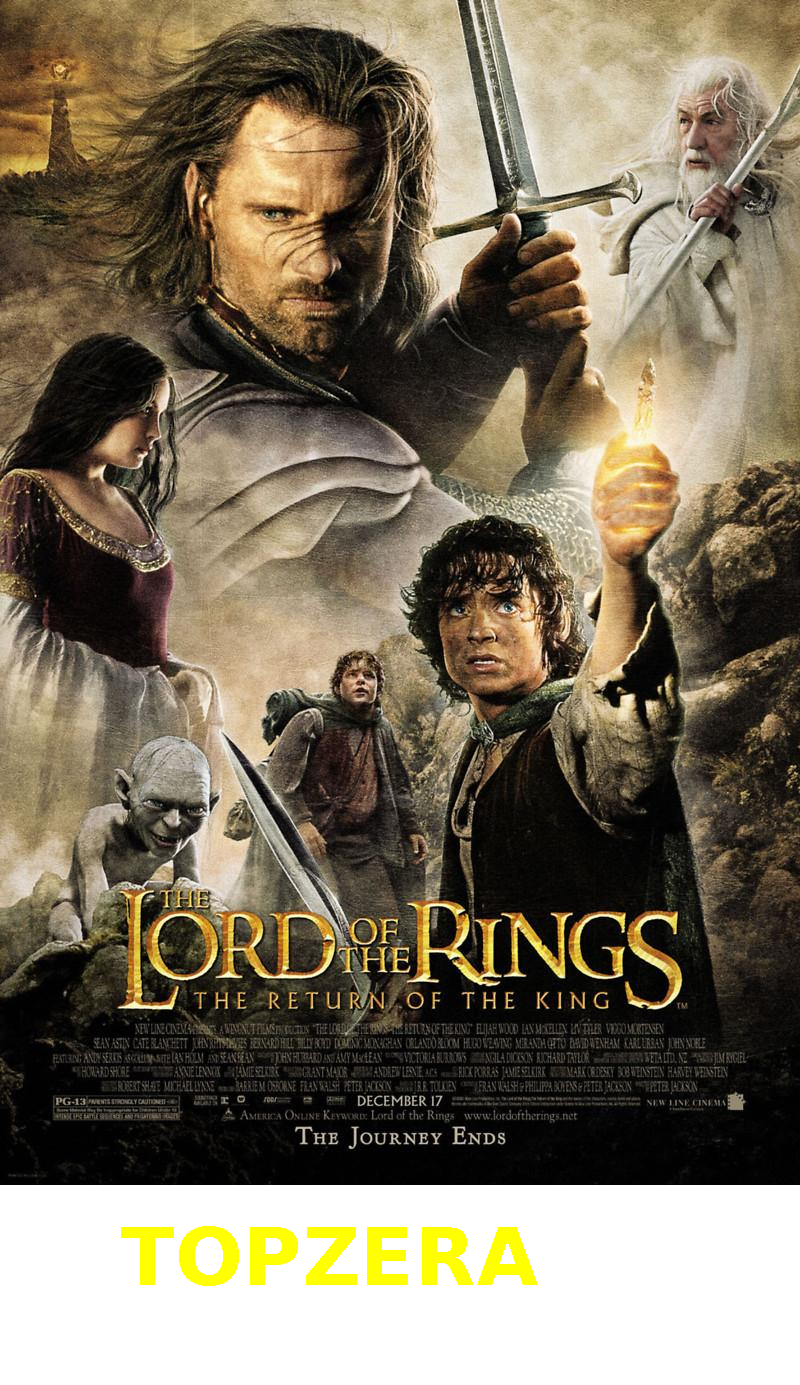
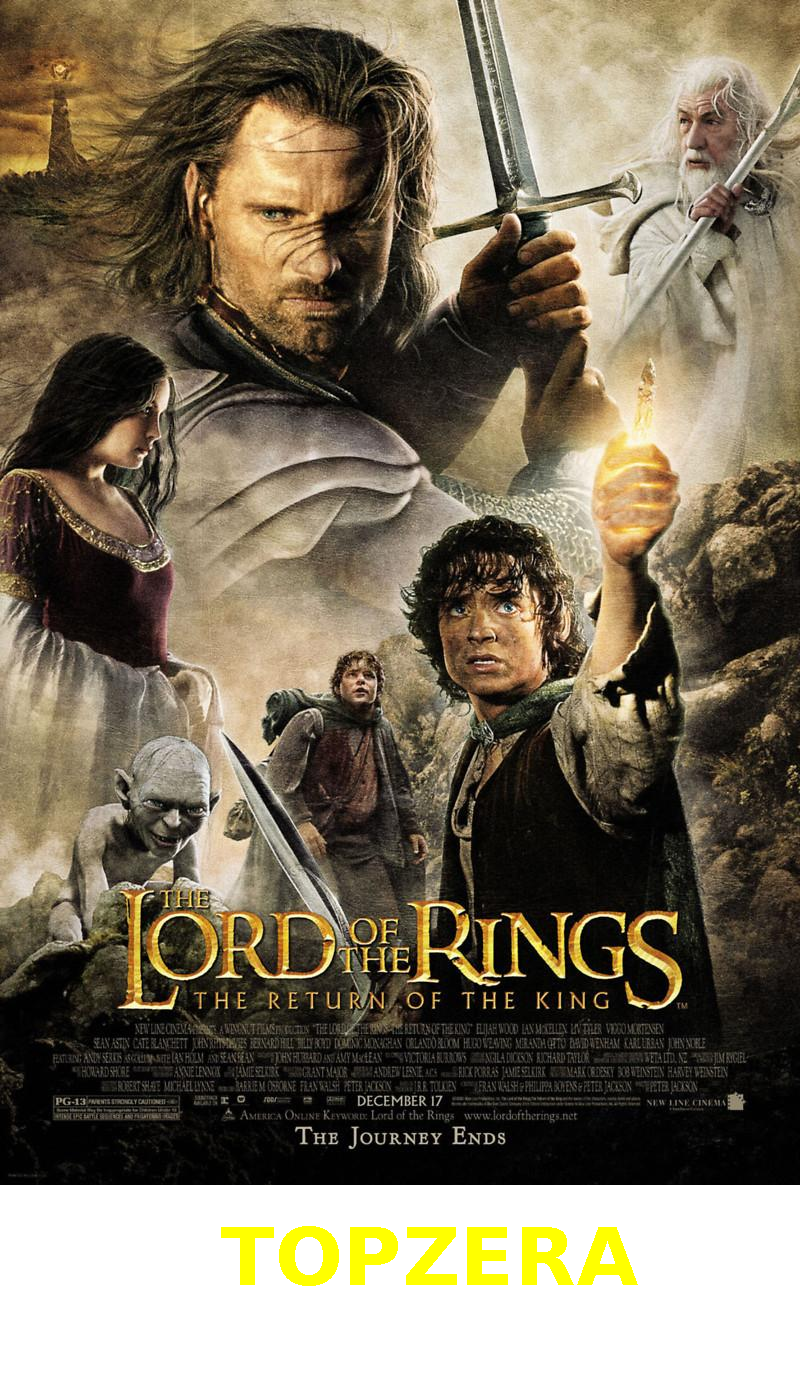
aula-3

Changed region(s): [[0.1562, 0.8693, 0.8125, 0.9314]]

diff --git a/src/Main.java b/src/Main.java
@@ -1,42 +1,38 @@
 import java.io.InputStream;
-import java.net.URI;
 import java.net.URL;
-import java.net.http.HttpClient;
-import java.net.http.HttpRequest;
-import java.net.http.HttpResponse;
-import java.net.http.HttpResponse.BodyHandlers;
 import java.util.List;
 import java.util.Map;
 public class Main {
     public static void main(String[] args) throws Exception {
 
-//        fazer uma conexão HTTP e buscar
+        //fazer uma conexão HTTP e buscar
 
         String url = "https://raw.githubusercontent.com/alura-cursos/imersao-java-2-api/main/TopMovies.json";
-        URI endereco = URI.create(url);
-        var client = HttpClient.newHttpClient();
-        var request = HttpRequest.newBuilder(endereco).GET().build();
-        HttpResponse<String> response = client.send(request, BodyHandlers.ofString());
-        String body = response.body();
+        ExtratorDeConteudoIMDB extrator = new ExtratorDeConteudoIMDB();
 
-//        Extrair só os dados que interessam (titulo, poster, classificação
+        //String url = "https://api.nasa.gov/planetary/apod?api_key=DEMO_KEY&start_date=2023-01-01&end_date=2023-01-10";
+        //ExtratorDeConteudoNasa extrator = new ExtratorDeConteudoNasa();
 
-        var parser = new JsonParser();
-        List<Map<String, String>> listaDeFilmes = parser.parse(body);
+        var http = new ClienteHttp();
+        String json = http.buscarDados(url);
 
-//        Exibir e manipular os dados
+        //Exibir e manipular os dados
+
+        List<Conteudo> conteudos = extrator.extrairConteudos(json);
+
         var geradora = new GeradoraDeFigurinhas();
-        for (Map<String,String> filme : listaDeFilmes) {
 
-            String urlImagem = filme.get("image");
-            String titulo = filme.get("title");
 
-            InputStream inputStream = new URL(urlImagem).openStream();
-            String nomeArquivo = titulo + ".png";
+        for (int i = 0; i < 10; i++) {
+
+            Conteudo conteudo = conteudos.get(i);
+
+            InputStream inputStream = new URL(conteudo.getUrlImagem()).openStream();
+            String nomeArquivo = conteudo.getTitulo() + ".png";
 
             geradora.cria(inputStream, nomeArquivo);
 
-            System.out.println(titulo);
+            System.out.println(conteudo.getTitulo());
             System.out.println();
         }
 

diff --git a/src/ExtratorDeConteudoIMDB.java b/src/ExtratorDeConteudoIMDB.java
@@ -1,0 +1,25 @@
+import java.util.ArrayList;
+import java.util.List;
+import java.util.Map;
+
+public class ExtratorDeConteudoIMDB implements ExtratorDeConteudo {
+    public List<Conteudo> extrairConteudos(String json){
+        //Extrair só os dados que interessam (titulo, poster, classificação
+
+        var parser = new JsonParser();
+        List<Map<String, String>> listaDeAtributos = parser.parse(json);
+
+        List<Conteudo> conteudos = new ArrayList<>();
+
+        //popular a lista de conteudos
+
+        for (Map<String, String> atributos : listaDeAtributos){
+            String titulo = atributos.get("title");
+            String urlImagem = atributos.get("image").replaceAll("(@+)(.*).jpg$", "$1.jpg");
+            var conteudo = new Conteudo(titulo, urlImagem);
+            conteudos.add(conteudo);
+        }
+
+        return conteudos;
+    }
+}

diff --git a/src/ExtratorDeConteudoNasa.java b/src/ExtratorDeConteudoNasa.java
@@ -1,0 +1,25 @@
+import java.util.ArrayList;
+import java.util.List;
+import java.util.Map;
+
+public class ExtratorDeConteudoNasa implements ExtratorDeConteudo {
+    public List<Conteudo> extrairConteudos(String json){
+        //Extrair só os dados que interessam (titulo, poster, classificação
+
+        var parser = new JsonParser();
+        List<Map<String, String>> listaDeAtributos = parser.parse(json);
+
+        List<Conteudo> conteudos = new ArrayList<>();
+
+        //popular a lista de conteudos
+
+        for (Map<String, String> atributos : listaDeAtributos){
+            String titulo = atributos.get("title");
+            String urlImagem = atributos.get("url");
+            var conteudo = new Conteudo(titulo, urlImagem);
+            conteudos.add(conteudo);
+        }
+
+        return conteudos;
+    }
+}

diff --git a/src/ClienteHttp.java b/src/ClienteHttp.java
@@ -1,0 +1,21 @@
+import java.io.IOException;
+import java.net.URI;
+import java.net.http.HttpClient;
+import java.net.http.HttpRequest;
+import java.net.http.HttpResponse;
+
+public class ClienteHttp {
+    public String buscarDados(String url){
+        try{
+
+            URI endereco = URI.create(url);
+            var client = HttpClient.newHttpClient();
+            var request = HttpRequest.newBuilder(endereco).GET().build();
+            HttpResponse<String> response = client.send(request, HttpResponse.BodyHandlers.ofString());
+            String body = response.body();
+            return body;
+        }catch (IOException | InterruptedException ex ){
+            throw new RuntimeException(ex);
+        }
+    }
+}

diff --git a/src/Conteudo.java b/src/Conteudo.java
@@ -1,0 +1,19 @@
+public class Conteudo {
+
+    private final String titulo;
+    private final String urlImagem;
+
+    public Conteudo(String titulo, String urlImagem) {
+        this.titulo = titulo;
+        this.urlImagem = urlImagem;
+    }
+
+    public String getTitulo() {
+        return titulo;
+    }
+
+    public String getUrlImagem() {
+        return urlImagem;
+    }
+
+}

diff --git a/src/GeradoraDeFigurinhas.java b/src/GeradoraDeFigurinhas.java
@@ -32,7 +32,7 @@ public class GeradoraDeFigurinhas {
 
         //escrever uma frase na nova imagem
 
-        graphics.drawString("TOPZERA", 120, novaAltura - 100);
+        graphics.drawString("TOPZERA", 220, novaAltura - 100);
 
 
         //escrever a nova imagem em um arquivo

diff --git a/src/ExtratorDeConteudo.java b/src/ExtratorDeConteudo.java
@@ -1,0 +1,7 @@
+import java.util.List;
+
+public interface ExtratorDeConteudo {
+
+    List<Conteudo> extrairConteudos(String json);
+
+}
